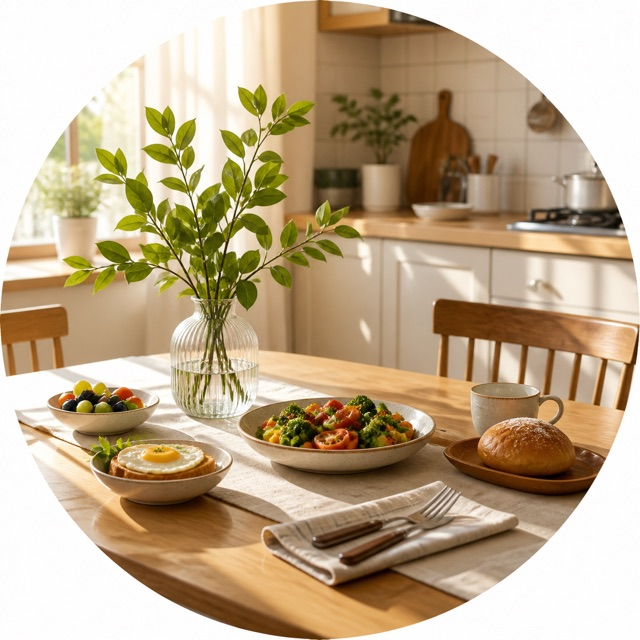
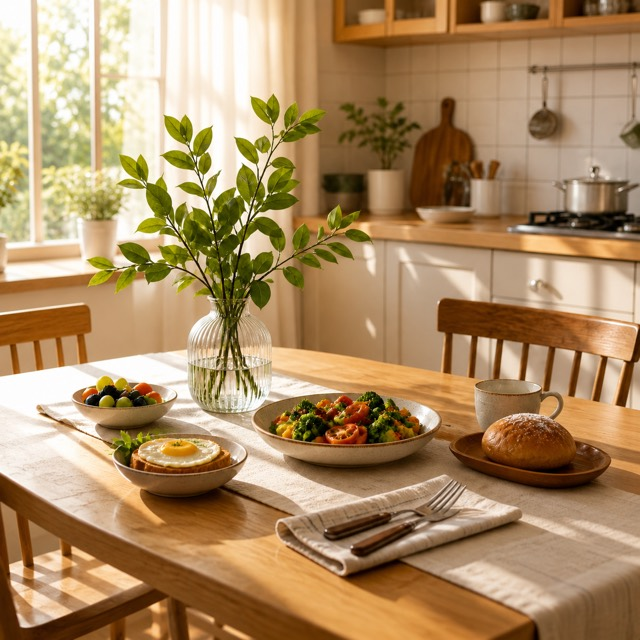
Fix serializer timestamps and family image preview

diff --git a/frontend/src/styles/02-family-settings.css b/frontend/src/styles/02-family-settings.css
@@ -1071,14 +1071,29 @@
     rgba(255, 252, 248, 0.88);
 }
 
-.family-image-large-preview img,
+.family-image-preview-mask,
 .family-image-empty {
   width: 96px;
   height: 96px;
   border-radius: 999px;
 }
 
-.family-image-large-preview img {
+.family-image-preview-mask {
+  overflow: hidden;
+  background: rgba(255, 255, 255, 0.62);
+  box-shadow:
+    inset 0 0 0 1px rgba(255, 255, 255, 0.35),
+    0 10px 24px rgba(125, 94, 70, 0.12);
+}
+
+.family-image-preview-media {
+  width: 100%;
+  height: 100%;
+}
+
+.family-image-preview-media-image {
+  width: 100%;
+  height: 100%;
   display: block;
   object-fit: cover;
 }
@@ -1595,4 +1610,3 @@
   border: 1px solid rgba(147, 96, 63, 0.14);
   box-shadow: 0 20px 48px rgba(74, 54, 40, 0.12);
 }
-

diff --git a/frontend/src/features/family/FamilySettingsModals.tsx b/frontend/src/features/family/FamilySettingsModals.tsx
@@ -507,7 +507,14 @@ export function FamilyEditModal(props: {
             </div>
             <div className="family-image-body">
               <div className="family-image-large-preview">
-                <MediaWithPlaceholder src={resolvedImageUrl} alt={props.form.name || '家庭头像'} />
+                <div className="family-image-preview-mask">
+                  <MediaWithPlaceholder
+                    src={resolvedImageUrl}
+                    alt={props.form.name || '家庭头像'}
+                    className="family-image-preview-media"
+                    imageClassName="family-image-preview-media-image"
+                  />
+                </div>
                 <span>{props.imageControls.isGenerating ? '生成中...' : props.form.images.generatedAsset ? '已设置家庭图' : '当前预览'}</span>
               </div>
               {props.imageControls.isPromptOpen && (
@@ -517,7 +524,7 @@ export function FamilyEditModal(props: {
                     <textarea
                       className="text-input"
                       rows={3}
-                      placeholder="例如：明亮温暖的家庭餐桌，绿植和早餐，适合圆形裁切，不要人物和文字"
+                      placeholder="例如：明亮温暖的家庭餐桌，绿植和早餐，按方形原图生成，不要人物和文字"
                       value={props.form.imagePrompt}
                       onChange={(event) => props.onChange({ ...props.form, imagePrompt: event.target.value })}
                     />

diff --git a/backend/app/services/serializers.py b/backend/app/services/serializers.py
@@ -1,6 +1,7 @@
 from __future__ import annotations
 
 from collections import defaultdict
+from datetime import UTC, datetime
 from decimal import Decimal
 
 from app.core.enums import normalize_food_type
@@ -45,6 +46,14 @@ def _to_optional_float(value: Decimal | float | int | None) -> float | None:
     return float(value)
 
 
+def _utc_datetime(value: datetime | None) -> datetime | None:
+    if value is None:
+        return None
+    if value.tzinfo is None:
+        return value.replace(tzinfo=UTC)
+    return value.astimezone(UTC)
+
+
 def _remaining_quantity(quantity: Decimal | float | int | None, consumed_quantity: Decimal | float | int | None) -> float:
     quantity_value = Decimal(str(quantity or 0))
     consumed_value = Decimal(str(consumed_quantity or 0))
@@ -63,7 +72,7 @@ def serialize_media(asset: MediaAsset) -> dict:
         "style_key": asset.style_key,
         "prompt_version": asset.prompt_version,
         "variants": asset.variants,
-        "created_at": asset.created_at,
+        "created_at": _utc_datetime(asset.created_at),
         "created_by": asset.created_by,
     }
 
@@ -111,8 +120,8 @@ def serialize_family(
         "motto": family.motto,
         "location": family.location,
         "image": serialize_media(media[0]) if media else None,
-        "created_at": family.created_at,
-        "updated_at": family.updated_at,
+        "created_at": _utc_datetime(family.created_at),
+        "updated_at": _utc_datetime(family.updated_at),
         "ai_recommendations": [serialize_ai_recommendation(item) for item in (recommendations or [])],
     }
 
@@ -140,8 +149,8 @@ def serialize_ingredient(ingredient: Ingredient, media_map: dict[tuple[str, str]
         "default_low_stock_threshold": _to_optional_float(ingredient.default_low_stock_threshold),
         "notes": ingredient.notes,
         "image": serialize_media(media[0]) if media else None,
-        "created_at": ingredient.created_at,
-        "updated_at": ingredient.updated_at,
+        "created_at": _utc_datetime(ingredient.created_at),
+        "updated_at": _utc_datetime(ingredient.updated_at),
         "created_by": ingredient.created_by,
         "updated_by": ingredient.updated_by,
     }
@@ -165,8 +174,8 @@ def serialize_inventory_item(item: InventoryItem) -> dict:
         "storage_location": item.storage_location,
         "notes": item.notes,
         "low_stock_threshold": _to_float(item.low_stock_threshold),
-        "created_at": item.created_at,
-        "updated_at": item.updated_at,
+        "created_at": _utc_datetime(item.created_at),
+        "updated_at": _utc_datetime(item.updated_at),
         "created_by": item.created_by,
         "updated_by": item.updated_by,
     }
@@ -181,8 +190,8 @@ def serialize_shopping_item(item: ShoppingListItem) -> dict:
         "unit": item.unit,
         "reason": item.reason,
         "done": item.done,
-        "created_at": item.created_at,
-        "updated_at": item.updated_at,
+        "created_at": _utc_datetime(item.created_at),
+        "updated_at": _utc_datetime(item.updated_at),
         "created_by": item.created_by,
         "updated_by": item.updated_by,
     }
@@ -224,8 +233,8 @@ def serialize_recipe(recipe: Recipe, media_map: dict[tuple[str, str], list[Media
         "scene_tags": list(recipe.scene_tags or []),
         "images": [serialize_media(asset) for asset in media_map.get(("recipe", recipe.id), [])],
         "cook_logs": [serialize_recipe_cook_log(item) for item in list(recipe.cook_logs)[:5]],
-        "created_at": recipe.created_at,
-        "updated_at": recipe.updated_at,
+        "created_at": _utc_datetime(recipe.created_at),
+        "updated_at": _utc_datetime(recipe.updated_at),
         "created_by": recipe.created_by,
         "updated_by": recipe.updated_by,
     }
@@ -243,8 +252,8 @@ def serialize_recipe_cook_log(item: RecipeCookLog) -> dict:
         "result_note": item.result_note,
         "adjustments": item.adjustments,
         "rating": item.rating,
-        "created_at": item.created_at,
-        "updated_at": item.updated_at,
+        "created_at": _utc_datetime(item.created_at),
+        "updated_at": _utc_datetime(item.updated_at),
         "created_by": item.created_by,
         "updated_by": item.updated_by,
     }
@@ -262,8 +271,8 @@ def serialize_food_scene(item: FoodScene, media_map: dict[tuple[str, str], list[
         "hidden": item.hidden,
         "custom": item.custom,
         "sort_order": item.sort_order,
-        "created_at": item.created_at,
-        "updated_at": item.updated_at,
+        "created_at": _utc_datetime(item.created_at),
+        "updated_at": _utc_datetime(item.updated_at),
         "created_by": item.created_by,
         "updated_by": item.updated_by,
     }
@@ -275,7 +284,7 @@ def serialize_recipe_favorite(item: RecipeFavorite) -> dict:
         "family_id": item.family_id,
         "user_id": item.user_id,
         "recipe_id": item.recipe_id,
-        "created_at": item.created_at,
+        "created_at": _utc_datetime(item.created_at),
     }
 
 
@@ -294,10 +303,10 @@ def serialize_food_plan_item(item: FoodPlanItem) -> dict:
         "meal_type": item.meal_type,
         "note": item.note,
         "status": item.status,
-        "completed_at": item.completed_at,
+        "completed_at": _utc_datetime(item.completed_at),
         "meal_log_id": item.meal_log_id,
-        "created_at": item.created_at,
-        "updated_at": item.updated_at,
+        "created_at": _utc_datetime(item.created_at),
+        "updated_at": _utc_datetime(item.updated_at),
         "created_by": item.created_by,
         "updated_by": item.updated_by,
     }
@@ -330,8 +339,8 @@ def serialize_food(food: Food, media_map: dict[tuple[str, str], list[MediaAsset]
         "stock_unit": food.stock_unit,
         "favorite": food.favorite,
         "recipe_id": food.recipe_id,
-        "created_at": food.created_at,
-        "updated_at": food.updated_at,
+        "created_at": _utc_datetime(food.created_at),
+        "updated_at": _utc_datetime(food.updated_at),
         "created_by": food.created_by,
         "updated_by": food.updated_by,
     }
@@ -369,8 +378,8 @@ def serialize_meal_log(meal_log: MealLog, media_map: dict[tuple[str, str], list[
         "mood": meal_log.mood,
         "photos": [serialize_media(asset) for asset in media_map.get(("meal_log", meal_log.id), [])],
         "deduction_suggestions": [serialize_deduction_suggestion(item) for item in meal_log.deduction_suggestions],
-        "created_at": meal_log.created_at,
-        "updated_at": meal_log.updated_at,
+        "created_at": _utc_datetime(meal_log.created_at),
+        "updated_at": _utc_datetime(meal_log.updated_at),
         "created_by": meal_log.created_by,
         "updated_by": meal_log.updated_by,
     }
@@ -386,7 +395,7 @@ def serialize_activity(log: ActivityLog, actor_name: str | None = None) -> dict:
         "entity_type": log.entity_type,
         "entity_id": log.entity_id,
         "summary": log.summary,
-        "created_at": log.created_at,
+        "created_at": _utc_datetime(log.created_at),
     }
 
 
@@ -397,13 +406,13 @@ def serialize_ai_conversation(item: AIConversation) -> dict:
         "mode": item.mode,
         "prompt": item.prompt,
         "response": item.response,
-        "created_at": item.created_at,
+        "created_at": _utc_datetime(item.created_at),
         "created_by": item.created_by,
         "context": item.context,
         "title": item.title,
         "summary": item.summary,
         "status": item.status,
-        "last_message_at": item.last_message_at,
+        "last_message_at": _utc_datetime(item.last_message_at),
         "last_run_status": item.last_run_status,
     }
 
@@ -414,7 +423,7 @@ def serialize_ai_recommendation(item: AIRecommendation) -> dict:
         "family_id": item.family_id,
         "title": item.title,
         "detail": item.detail,
-        "created_at": item.created_at,
+        "created_at": _utc_datetime(item.created_at),
     }
 
 
@@ -459,7 +468,7 @@ def serialize_ai_message(item: AIMessage) -> dict:
         "status": item.status,
         "metadata": item.message_metadata,
         "client_message_id": item.client_message_id,
-        "created_at": item.created_at,
+        "created_at": _utc_datetime(item.created_at),
     }
 
 
@@ -470,7 +479,7 @@ def serialize_ai_run(item: AIAgentRun) -> dict:
         "intent": item.intent,
         "status": item.status,
         "model": item.model,
-        "created_at": item.created_at,
+        "created_at": _utc_datetime(item.created_at),
     }
 
 
@@ -482,7 +491,7 @@ def serialize_ai_run_event(item: AIRunEvent) -> dict:
         "internal_code": item.internal_code,
         "user_message": item.user_message,
         "status": item.status,
-        "created_at": item.created_at,
+        "created_at": _utc_datetime(item.created_at),
     }
 
 
@@ -499,9 +508,9 @@ def serialize_ai_task_draft(item: AITaskDraft) -> dict:
         "version": item.version,
         "schema_version": item.schema_version,
         "validation_errors": item.validation_errors,
-        "expires_at": item.expires_at,
-        "created_at": item.created_at,
-        "updated_at": item.updated_at,
+        "expires_at": _utc_datetime(item.expires_at),
+        "created_at": _utc_datetime(item.created_at),
+        "updated_at": _utc_datetime(item.updated_at),
     }
 
 
@@ -527,9 +536,9 @@ def serialize_ai_approval_request(item: AIApprovalRequest) -> dict:
         "submitted_values": item.submitted_values,
         "decision": item.decision,
         "comment": item.comment,
-        "resolved_at": item.resolved_at,
-        "expires_at": item.expires_at,
-        "created_at": item.created_at,
+        "resolved_at": _utc_datetime(item.resolved_at),
+        "expires_at": _utc_datetime(item.expires_at),
+        "created_at": _utc_datetime(item.created_at),
     }
 
 
@@ -543,6 +552,6 @@ def serialize_ai_operation(item: AIOperation) -> dict:
         "business_entity_type": item.business_entity_type,
         "business_entity_ids": item.business_entity_ids,
         "error_message": item.error_message,
-        "completed_at": item.completed_at,
-        "created_at": item.created_at,
+        "completed_at": _utc_datetime(item.completed_at),
+        "created_at": _utc_datetime(item.created_at),
     }

diff --git a/backend/tests/test_serializers.py b/backend/tests/test_serializers.py
@@ -1,0 +1,25 @@
+from __future__ import annotations
+
+import unittest
+from datetime import UTC, datetime, timedelta, timezone
+
+from app.services.serializers import _utc_datetime
+
+
+class SerializerDateTimeTestCase(unittest.TestCase):
+    def test_naive_datetimes_read_from_mysql_are_treated_as_utc(self) -> None:
+        value = _utc_datetime(datetime(2026, 6, 12, 4, 30, 0))
+
+        self.assertEqual(value, datetime(2026, 6, 12, 4, 30, 0, tzinfo=UTC))
+        self.assertEqual(value.isoformat(), "2026-06-12T04:30:00+00:00")
+
+    def test_aware_datetimes_are_normalized_to_utc(self) -> None:
+        china_time = datetime(2026, 6, 12, 12, 30, 0, tzinfo=timezone(timedelta(hours=8)))
+
+        value = _utc_datetime(china_time)
+
+        self.assertEqual(value, datetime(2026, 6, 12, 4, 30, 0, tzinfo=UTC))
+
+
+if __name__ == "__main__":
+    unittest.main()